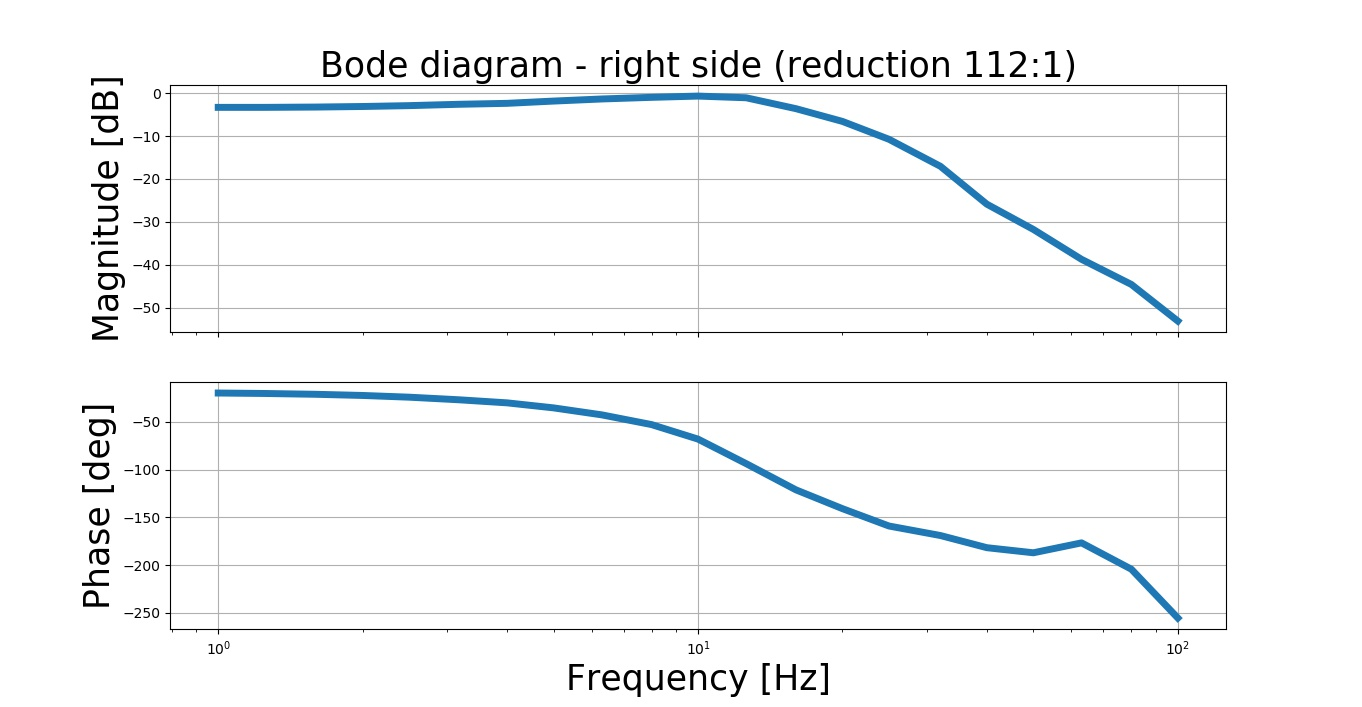
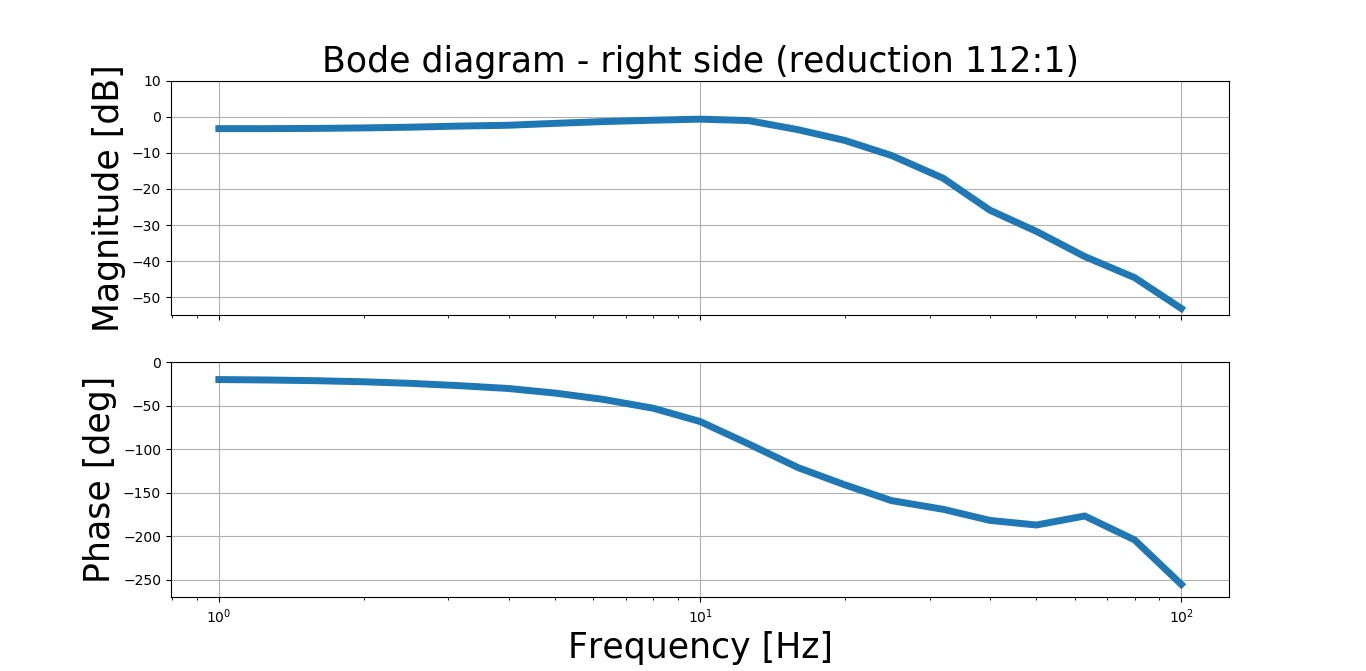
do analysis of the data from 21st of June (voltage follower)

diff --git a/Python - data analysis/Frequency response analysis/freq_resp_analysis.py b/Python - data analysis/Frequency response analysis/freq_resp_analysis.py
@@ -190,6 +190,8 @@ axarr_l[0].tick_params(axis='x', labelsize=10)
 axarr_l[1].tick_params(axis='x', labelsize=10)
 axarr_l[0].tick_params(axis='y', labelsize=10)
 axarr_l[1].tick_params(axis='y', labelsize=10)
+axarr_l[0].set_ylim(-55,10)
+axarr_l[1].set_ylim(-270,0)
 axarr_l[0].grid()
 axarr_l[1].grid()
 figure_directory = 'figs/'
@@ -210,6 +212,8 @@ axarr_r[0].tick_params(axis='x', labelsize=10)
 axarr_r[1].tick_params(axis='x', labelsize=10)
 axarr_r[0].tick_params(axis='y', labelsize=10)
 axarr_r[1].tick_params(axis='y', labelsize=10)
+axarr_r[0].set_ylim(-55,10)
+axarr_r[1].set_ylim(-270,0)
 axarr_r[0].grid()
 axarr_r[1].grid()
 figure_directory = 'figs/'
